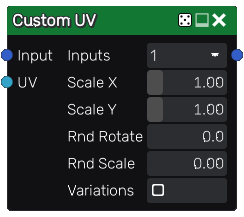
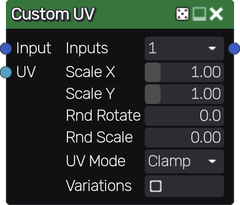
Added UV Mode for Custom UV node

diff --git a/material_maker/doc/node_transform_custom_uv.rst b/material_maker/doc/node_transform_custom_uv.rst
@@ -29,8 +29,18 @@ The **Custom UV** node accepts the following parameters:
 
 * *Inputs* is the number of alternate shapes in the input (1, 4 or 16). Images containing several
   shapes can easily be created using the **Tile2x2** node.
+
 * *Scale X and Scale Y* are the scale along X and Y axes applied to each instance.
+
 * *Rnd Rotate* is the maximum angle of the random rotation applied to each instance.
+
 * *Rnd Scale* is the amount of random scaling applied to each instance.
+
+* *UV Mode* defines the behavior beyond the limits for the input UV:
+
+    * **Clamp** stretches the edges
+    * **Repeat** tiles the input UV
+    * **Extend** shows parts of the input UV that are beyond the edges
+
 * *Variations*: if checked, the node will deform different variations of its input
   (i.e. roll a different seed for each instance)
